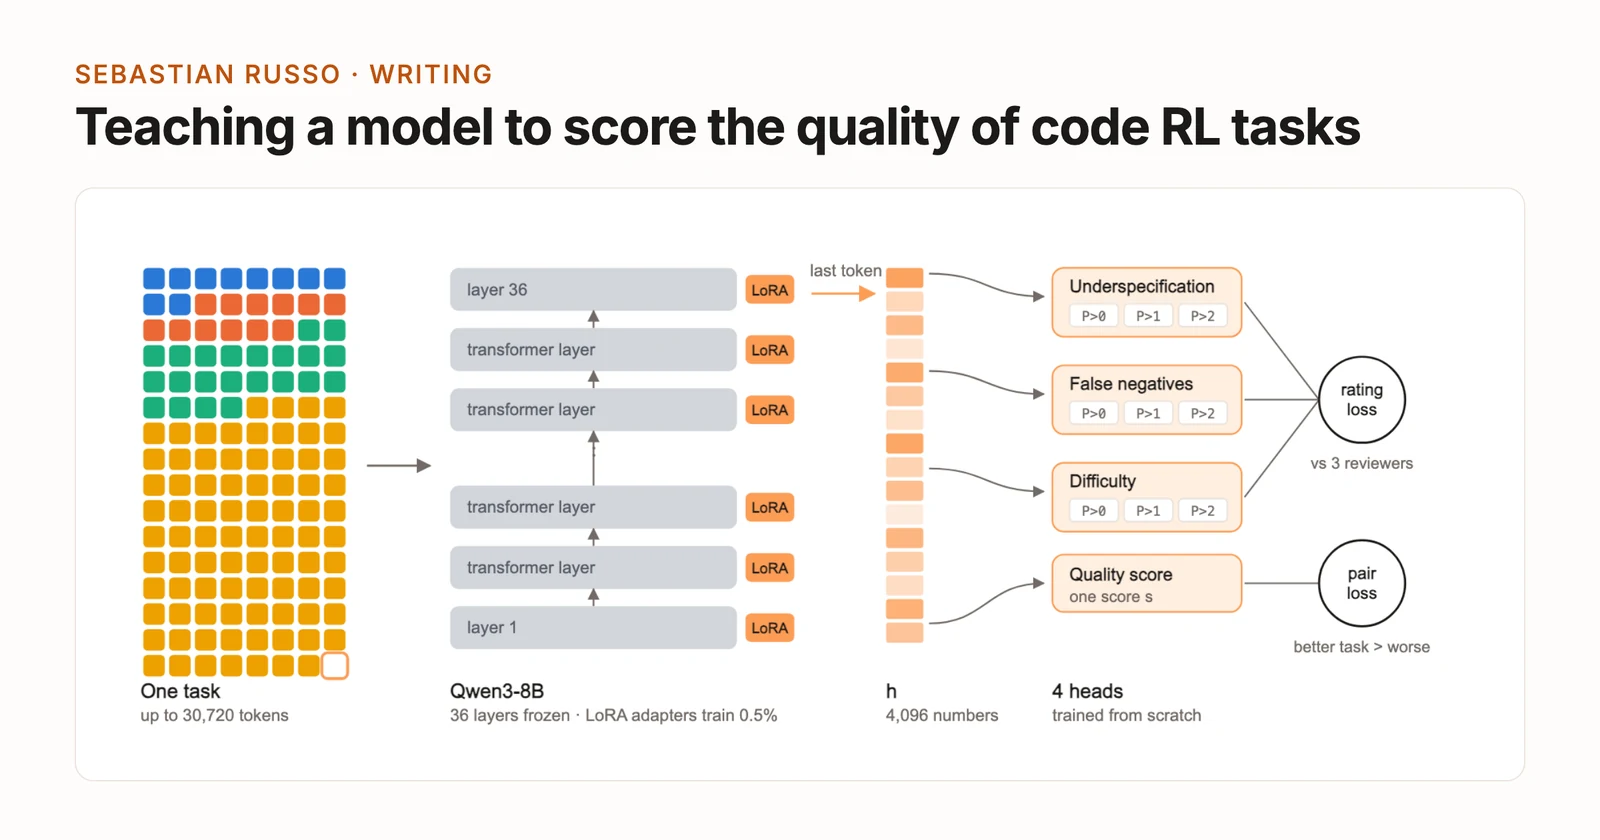
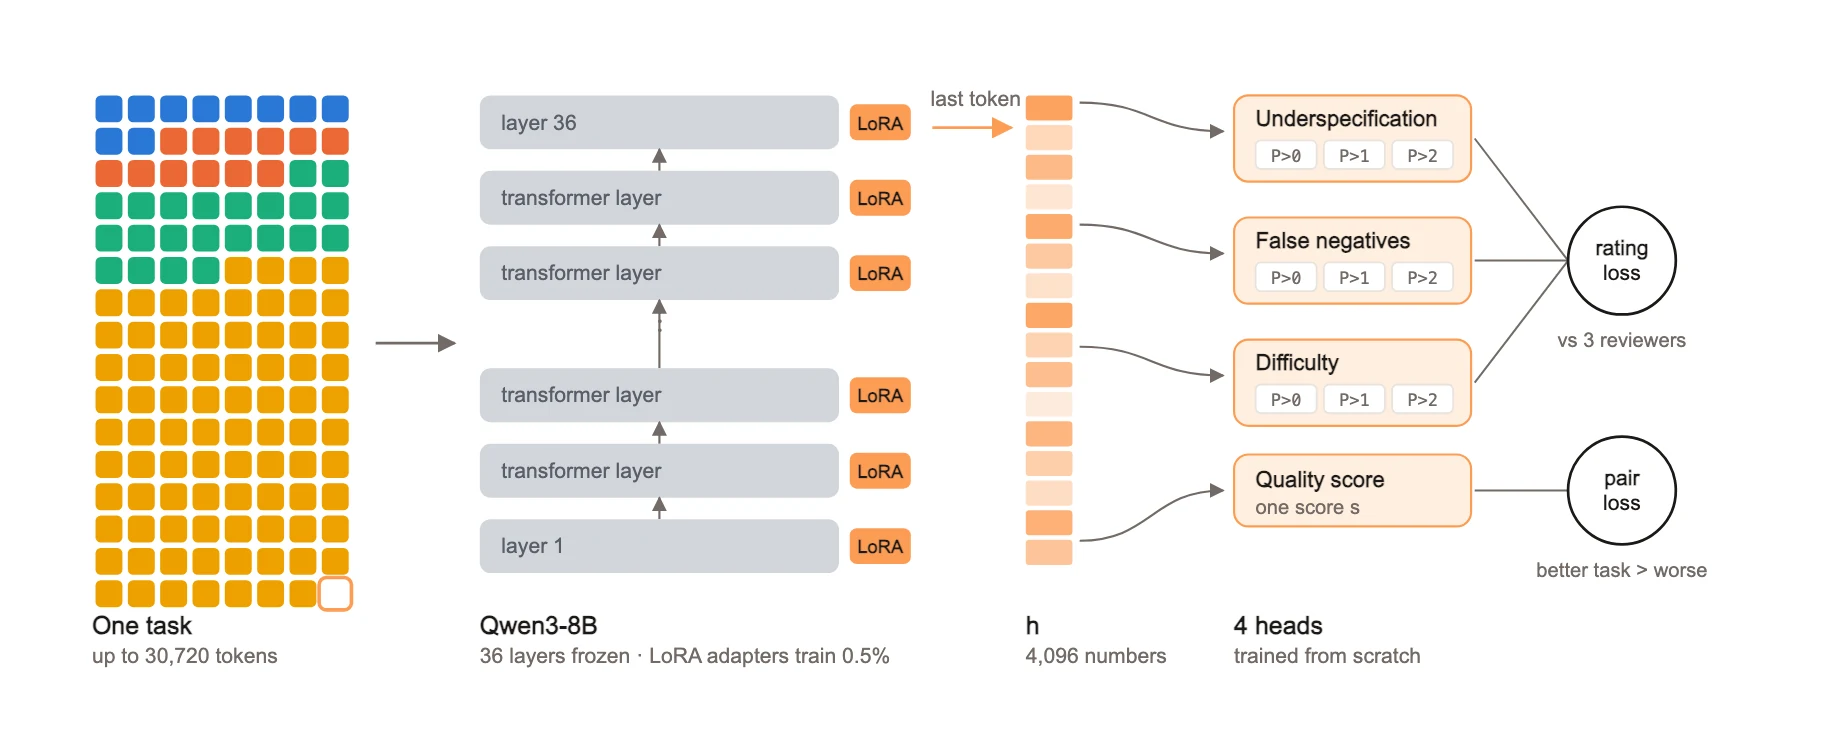
Writing card thumbnail: diagram only (title already on the card)

diff --git a/lib/posts.ts b/lib/posts.ts
@@ -64,8 +64,8 @@ export const PAGE_POSTS: Post[] = [
     image: {
       src: '/images/tqs-learnings-card.webp',
       alt: 'Architecture diagram: a task\'s tokens pass through Qwen3-8B with LoRA adapters into three rating heads and a quality-score head.',
-      width: 1600,
-      height: 840,
+      width: 1836,
+      height: 734,
     },
   },
 ]
